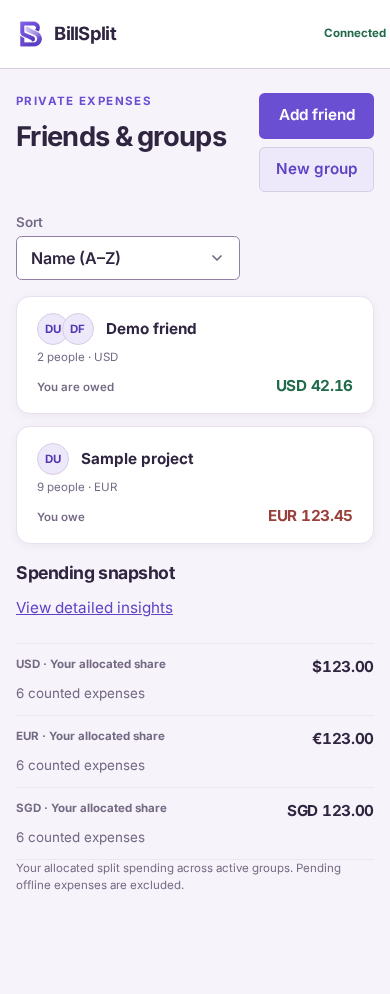
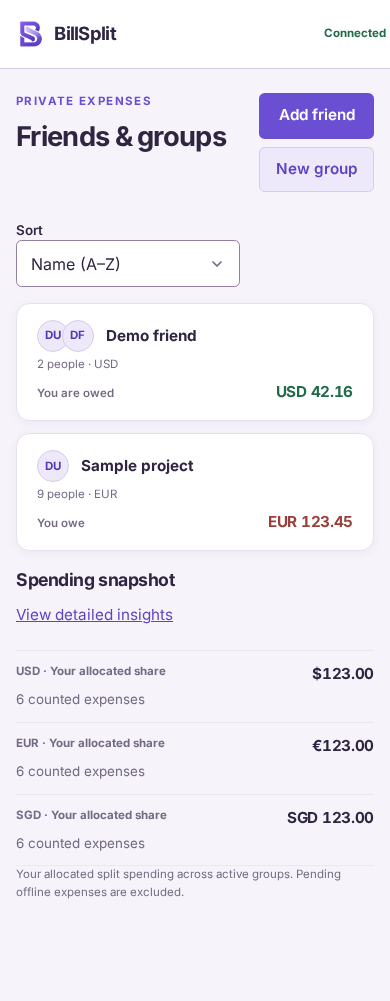
Make Home sorting help a compact superscript (#44)

diff --git a/tests/e2e/home-insights-surfaces.spec.ts b/tests/e2e/home-insights-surfaces.spec.ts
@@ -114,6 +114,33 @@ test('Home cards retain compact, accessible balance geometry across the navigati
       await expect(tooltip).toHaveCount(0);
       await expect(help).toBeVisible();
       expect(await help.evaluate((button) => button.closest('label'))).toBeNull();
+      const sortGeometry = await page.evaluate(() => {
+        const box = (selector: string) => {
+          const { left, right, top, bottom, width, height } = document.querySelector(selector)!.getBoundingClientRect();
+          return { left, right, top, bottom, width, height };
+        };
+        return {
+          row: box('.home-sort__label'), label: box('label[for="home-sort"]'),
+          target: box('.home-sort-help__trigger'), glyph: box('.home-sort-help__trigger > span'),
+          select: box('#home-sort'), actions: box('.home-actions'),
+          fontSize: parseFloat(getComputedStyle(document.querySelector('.home-sort-help__trigger')!).fontSize),
+        };
+      });
+      const { row, label, target, glyph, select, actions } = sortGeometry;
+      expect(row.height, JSON.stringify({ width, sortGeometry })).toBeLessThan(25);
+      expect(target.width).toBeGreaterThanOrEqual(44);
+      expect(target.height).toBeGreaterThanOrEqual(44);
+      expect(target.left).toBeGreaterThanOrEqual(label.right);
+      expect(target.bottom).toBeLessThanOrEqual(select.top);
+      expect(target.top).toBeGreaterThanOrEqual(actions.bottom);
+      expect(target.right).toBeLessThanOrEqual(width);
+      expect(glyph.left - label.right).toBeGreaterThanOrEqual(1);
+      expect(glyph.left - label.right).toBeLessThanOrEqual(3);
+      expect(glyph.top).toBeLessThan(label.top + 2);
+      expect(glyph.bottom).toBeLessThan(label.bottom - 5);
+      expect(sortGeometry.fontSize).toBeGreaterThanOrEqual(10);
+      expect(sortGeometry.fontSize).toBeLessThanOrEqual(12);
+      if (device) await captureHome(page, testInfo, `home-outstanding-closed-${device}`);
       await help.hover();
       await expect(tooltip).toHaveText('Largest absolute balance first: default currency, otherwise the first non-zero currency alphabetically. Amounts are compared without currency conversion.');
       await tooltip.hover();
@@ -123,6 +150,22 @@ test('Home cards retain compact, accessible balance geometry across the navigati
       await sort.focus();
       await page.keyboard.press('Shift+Tab');
       await expect(help).toBeFocused();
+      const focusRing = await help.evaluate((button) => {
+        const style = getComputedStyle(button);
+        const target = button.getBoundingClientRect();
+        const glyph = button.querySelector('span')!.getBoundingClientRect();
+        const label = document.querySelector('label[for="home-sort"]')!.getBoundingClientRect();
+        const tooltip = document.querySelector('[role="tooltip"]')!.getBoundingClientRect();
+        return {
+          visible: button.matches(':focus-visible'), style: style.outlineStyle,
+          thickness: parseFloat(style.outlineWidth), offset: parseFloat(style.outlineOffset),
+          labelClear: target.left >= label.right,
+          tooltipClear: target.bottom <= tooltip.top,
+          glyphInset: Math.min(glyph.left - target.left, target.right - glyph.right, glyph.top - target.top, target.bottom - glyph.bottom),
+        };
+      });
+      expect(focusRing).toMatchObject({ visible: true, style: 'solid', thickness: 3, offset: -3, labelClear: true, tooltipClear: true });
+      expect(focusRing.glyphInset).toBeGreaterThanOrEqual(6);
       await expect(help).toHaveAttribute('aria-describedby', 'home-sort-help');
       await tooltip.hover();
       await page.keyboard.press('Tab');
@@ -145,9 +188,6 @@ test('Home cards retain compact, accessible balance geometry across the navigati
       const bounds = await tooltip.boundingBox();
       expect(bounds!.x).toBeGreaterThanOrEqual(0);
       expect(bounds!.x + bounds!.width).toBeLessThanOrEqual(width);
-      const target = await help.boundingBox();
-      expect(target!.width).toBeGreaterThanOrEqual(44);
-      expect(target!.height).toBeGreaterThanOrEqual(44);
       expect(await page.evaluate(() => document.documentElement.scrollWidth <= document.documentElement.clientWidth)).toBe(true);
       if (device) await captureHome(page, testInfo, `home-outstanding-${device}`);
       await page.getByRole('heading', { name: 'Friends & groups' }).click();

diff --git a/src/app/theme/home-creation.css b/src/app/theme/home-creation.css
@@ -1,5 +1,7 @@
 .home-sort {
   position: relative;
+  /* Leave clearance for the upward 44px help target without a tall label row. */
+  margin-top: 28px;
   margin-bottom: var(--space-4);
 }
 
@@ -8,14 +10,23 @@
 }
 
 .home-sort__label {
+  position: relative;
   display: flex;
   align-items: center;
-  min-height: 44px;
+  gap: 2px;
   font-size: var(--text-sm);
   font-weight: 600;
 }
 
+.home-sort-help {
+  width: 44px;
+  align-self: stretch;
+}
+
 .home-sort-help__trigger {
+  /* Use the existing space above the label, never the select below it. */
+  position: absolute;
+  bottom: 0;
   display: inline-flex;
   align-items: center;
   justify-content: center;
@@ -25,13 +36,30 @@
   border: 0;
   background: transparent;
   color: var(--color-text-secondary);
-  font-size: 18px;
+  font-size: 11px;
+}
+
+.home-sort-help__trigger > span {
+  position: absolute;
+  left: 0;
+  bottom: 10px;
+  line-height: 1;
+}
+
+.home-sort-help__trigger:focus-visible {
+  outline: 3px solid var(--color-primary-focus-ring);
+  outline-offset: -3px;
+}
+
+.home-sort-help__trigger:focus-visible > span {
+  /* Keep the superscript inside its inset focus ring, not underneath it. */
+  left: 6px;
 }
 
 .home-sort-help__tooltip {
   position: absolute;
   z-index: 10;
-  top: 44px;
+  top: 100%;
   left: 0;
   width: min(100%, 24rem);
   border: 1px solid var(--color-border);

diff --git a/docs/responsive-audit-matrix.md b/docs/responsive-audit-matrix.md
@@ -9,23 +9,32 @@ labelled native Sort control, which precedes the combined friend/group cards.
 | State | Checks at all six widths |
 | --- | --- |
 | Name (A–Z), default | Compact labelled control, numeric case-insensitive display-name order, existing balance/card geometry and navigation boundary; no contextual help |
-| Outstanding first, tooltip closed | Reordered cards; small info icon beside Sort with a separate 44×44px button target outside the label; explanatory paragraph no longer occupies the page |
+| Outstanding first, tooltip closed | Reordered cards; raised 11px info glyph immediately after Sort with a 2px gap; label row below 25px, separate 44×44px target extends upward into header clearance without overlapping label, select or preceding actions; explanatory paragraph no longer occupies the page |
 | Outstanding first, tooltip open | Exact default/fallback and no-conversion text in a text-only `role=tooltip`, described by the trigger; hover (including tooltip), keyboard focus and click/tap open; repeated activation toggles pinned help closed even with existing focus. Hover, focus and pinned state combine: blur while hovering text retains it, and clicking/selecting text does not dismiss. Escape/outside pointer dismiss and suppress existing hover/focus until fresh pointer entry, fresh focus, or explicit trigger activation; contained bounds and no horizontal overflow |
 | Reload / cached refresh failure | Per-account local preference retained; tooltip resets closed on reload and remains usable with cached cards after failed group refresh |
 | Offline, already loaded | Both modes and tooltip usable without a network request; name mode removes trigger and tooltip |
 | Cold loading | Existing skeleton, no sort control before cards exist |
 | Empty / uncached error | Existing empty/error notices, no irrelevant sort control |
 
-Tooltip follow-up verification (2026-10-10): typecheck, five focused sorting/hook
+Superscript follow-up verification (2026-10-10): typecheck, five focused sorting/hook
 unit tests, and all nine focused Chromium Home/Insights tests passed. A touch-enabled
 390px context verifies consecutive trigger taps open/close, text taps retain help,
 and outside taps dismiss. Combined focus/hover blur and text selection are checked
 at all six widths. Tooltip
 closed/open, hover persistence, keyboard dismissal/reopening, outside click,
-44px target and viewport bounds were checked at all six widths, together with
+compact row, raised glyph, non-overlapping 44px target and viewport bounds were checked at all six widths, together with
 existing loading/empty/error and cached/offline sorting checks. Screenshots are
-test attachments only; tracked references were not regenerated. Full route audit,
+refreshed tracked references using exclusively synthetic demo data, including new
+closed-tooltip mobile/desktop references so the small superscript is unobscured.
+Closed/open outstanding mobile/desktop captures were visually inspected. Full route audit,
 other browser engines, screen-reader and real-device touch checks were not run.
+
+Keyboard-focus follow-up: the trigger uses a 3px inset outline contained entirely
+within its 44px target, clear of Sort text and the tooltip. Only while keyboard
+focused, the 11px glyph moves 6px inside the target so the ring surrounds rather
+than crosses it. Six-width browser assertions check focus visibility, ring width
+and inset, glyph clearance, and label/tooltip separation; open references refresh
+this keyboard-focused state with the same sanitized synthetic fixture.
 
 Pure helper and hook tests cover all summaries (not display-truncated), default
 currency zero fallback, absent/empty/zero summaries, absolute positive/negative
@@ -33,12 +42,13 @@ minor amounts across currencies without FX, unknown before settled, name/ID
 ties, immutability, invalid/unavailable/throwing storage and account switches.
 
 Reference captures: `docs/screenshots/home-{mobile,desktop}.png`,
-`home-sgd-stress-{mobile,desktop}.png`, and `home-outstanding-{mobile,desktop}.png`.
+`home-sgd-stress-{mobile,desktop}.png`, `home-outstanding-{mobile,desktop}.png`
+(open, keyboard-focused help), and `home-outstanding-closed-{mobile,desktop}.png`.
 Captures await fonts and disable animations; mobile bottom navigation is hidden
 only for full-page capture after live layout/navigation checks. Regenerate with:
 
 ```sh
-UPDATE_HOME_SCREENSHOTS=1 PLAYWRIGHT_BROWSERS_PATH=/ms-playwright BILLSPLIT_E2E_PORT=8798 BILLSPLIT_E2E_PERSIST_DIR=/tmp/bill-split-playwright-home-sorting npm run test:e2e:local -- tests/e2e/home-insights-surfaces.spec.ts --project=chromium --workers=1
+UPDATE_HOME_SCREENSHOTS=1 PLAYWRIGHT_BROWSERS_PATH=/ms-playwright BILLSPLIT_E2E_PORT=8798 BILLSPLIT_E2E_PERSIST_DIR=/tmp/bill-split-playwright-home-superscript npm run test:e2e:local -- tests/e2e/home-insights-surfaces.spec.ts --project=chromium --workers=1
 ```
 
 Verification: `npm run test:unit -- --maxWorkers=2` passed (65 files, 946 tests);

diff --git a/AGENTS.md b/AGENTS.md
@@ -10,6 +10,7 @@
 - Represent every new or changed interactive view and meaningful disclosure/modal state in the responsive audit matrix, including narrow mobile, breakpoint boundaries, and desktop.
 - Verify primary actions appear before management controls and cover loading, cached, offline, empty, and error states.
 - Add a focused behavior test where practical.
+- For visual UI changes, refresh the relevant tracked screenshots alongside the code. Where no reference exists, add repeatable synthetic screenshot evidence; cover meaningful changed disclosure states and mobile/desktop layouts using the data rules below.
 
 # Screenshot and Demo Data
 
